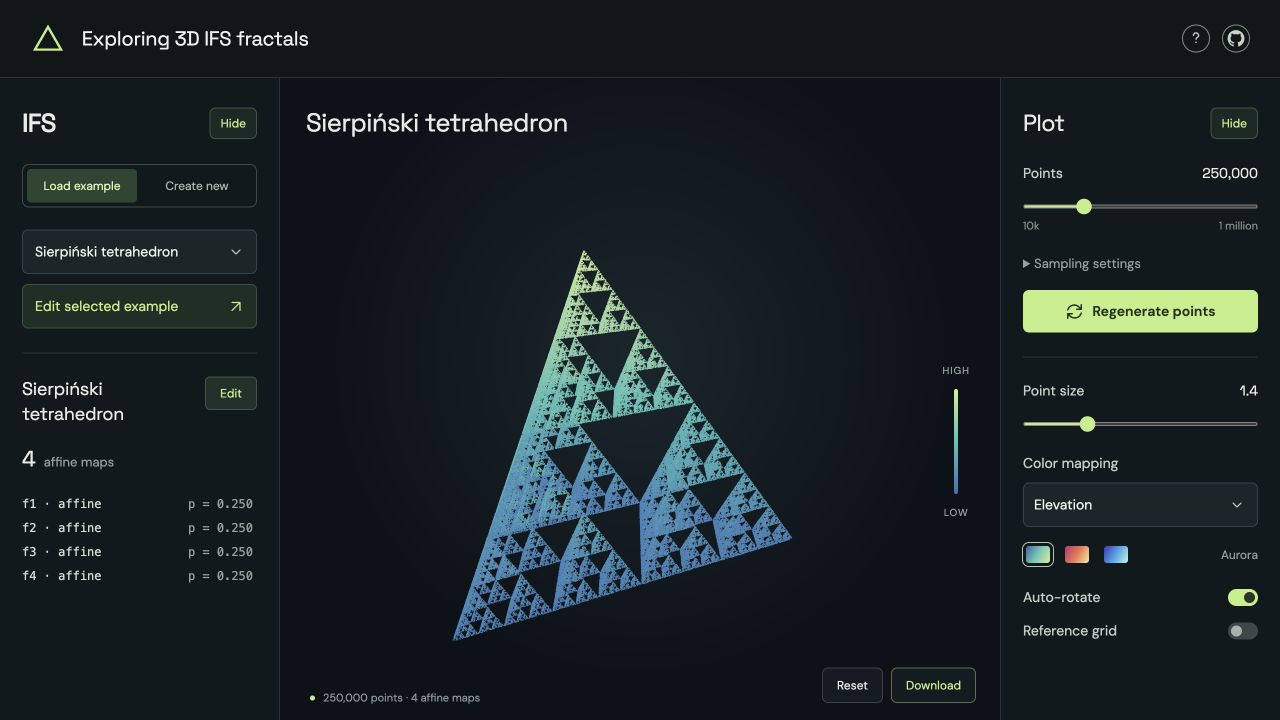
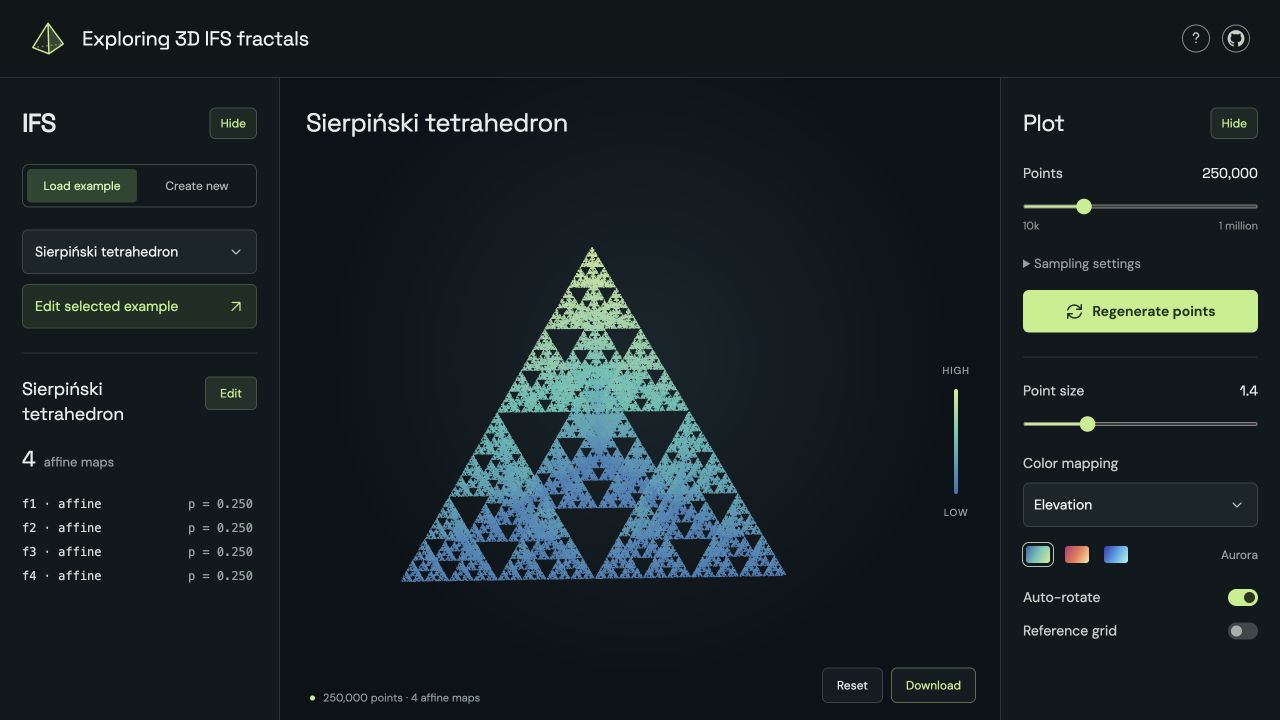
Add four fractal examples and tetrahedron brand mark

Changed region(s): [[0.3125, 0.3361, 0.625, 0.8861], [0.0312, 0.0306, 0.2188, 0.0917]]

diff --git a/index.html b/index.html
@@ -8,7 +8,7 @@
   <link rel="stylesheet" href="/src/style.css">
 </head>
 <body>
-  <header class="topbar"><a class="brand" href="./"><span class="mark" aria-hidden="true">△</span><span>Exploring 3D IFS fractals</span></a><div class="header-links"><a class="plot-help header-icon" href="https://en.wikipedia.org/wiki/Chaos_game" target="_blank" rel="noopener noreferrer" aria-label="About the chaos game plotting method (opens in a new tab)" title="Chaos game: repeatedly apply a randomly chosen map, using its weight as the selection probability, and plot the resulting points."><svg viewBox="0 0 24 24" aria-hidden="true" fill="none" stroke="currentColor" stroke-width="1.8" stroke-linecap="round" stroke-linejoin="round"><path d="M8.5 8a3.5 3.5 0 0 1 7 0c0 2.5-3.5 2.5-3.5 5"/><circle cx="12" cy="17" r="1" fill="currentColor" stroke="none"/></svg></a><a class="github-link header-icon" href="https://github.com/zfengg/3D-IFS-Fractals" target="_blank" rel="noopener noreferrer" aria-label="GitHub repository (opens in a new tab)" title="View source on GitHub"><svg viewBox="0 0 24 24" aria-hidden="true" fill="currentColor"><path d="M12 .75a11.25 11.25 0 0 0-3.56 21.92c.56.1.77-.24.77-.54v-2.1c-3.13.68-3.79-1.33-3.79-1.33-.51-1.3-1.25-1.65-1.25-1.65-1.02-.7.08-.69.08-.69 1.13.08 1.72 1.16 1.72 1.16 1 1.72 2.63 1.22 3.27.93.1-.73.39-1.22.71-1.5-2.5-.28-5.13-1.25-5.13-5.56 0-1.23.44-2.23 1.16-3.01-.12-.29-.5-1.43.11-2.98 0 0 .94-.3 3.09 1.15a10.8 10.8 0 0 1 5.62 0c2.15-1.46 3.09-1.15 3.09-1.15.61 1.55.23 2.69.11 2.98.72.78 1.16 1.78 1.16 3.01 0 4.32-2.63 5.28-5.14 5.56.4.35.76 1.03.76 2.08v3.1c0 .3.2.65.78.54A11.25 11.25 0 0 0 12 .75Z"/></svg></a></div></header>
+  <header class="topbar"><a class="brand" href="./"><span class="mark" aria-hidden="true"><svg viewBox="0 0 40 40" fill="none" stroke="currentColor" stroke-width="1.6" stroke-linejoin="round"><path d="M20 3 3 30 21 37Z" fill="currentColor" fill-opacity=".08"/><path d="M20 3 21 37 37 26Z" fill="currentColor" fill-opacity=".22"/><path d="m3 30 18 7 16-11"/><path d="m3 30 34-4" stroke-opacity=".45" stroke-dasharray="2 3"/></svg></span><span>Exploring 3D IFS fractals</span></a><div class="header-links"><a class="plot-help header-icon" href="https://en.wikipedia.org/wiki/Chaos_game" target="_blank" rel="noopener noreferrer" aria-label="About the chaos game plotting method (opens in a new tab)" title="Chaos game: repeatedly apply a randomly chosen map, using its weight as the selection probability, and plot the resulting points."><svg viewBox="0 0 24 24" aria-hidden="true" fill="none" stroke="currentColor" stroke-width="1.8" stroke-linecap="round" stroke-linejoin="round"><path d="M8.5 8a3.5 3.5 0 0 1 7 0c0 2.5-3.5 2.5-3.5 5"/><circle cx="12" cy="17" r="1" fill="currentColor" stroke="none"/></svg></a><a class="github-link header-icon" href="https://github.com/zfengg/3D-IFS-Fractals" target="_blank" rel="noopener noreferrer" aria-label="GitHub repository (opens in a new tab)" title="View source on GitHub"><svg viewBox="0 0 24 24" aria-hidden="true" fill="currentColor"><path d="M12 .75a11.25 11.25 0 0 0-3.56 21.92c.56.1.77-.24.77-.54v-2.1c-3.13.68-3.79-1.33-3.79-1.33-.51-1.3-1.25-1.65-1.25-1.65-1.02-.7.08-.69.08-.69 1.13.08 1.72 1.16 1.72 1.16 1 1.72 2.63 1.22 3.27.93.1-.73.39-1.22.71-1.5-2.5-.28-5.13-1.25-5.13-5.56 0-1.23.44-2.23 1.16-3.01-.12-.29-.5-1.43.11-2.98 0 0 .94-.3 3.09 1.15a10.8 10.8 0 0 1 5.62 0c2.15-1.46 3.09-1.15 3.09-1.15.61 1.55.23 2.69.11 2.98.72.78 1.16 1.78 1.16 3.01 0 4.32-2.63 5.28-5.14 5.56.4.35.76 1.03.76 2.08v3.1c0 .3.2.65.78.54A11.25 11.25 0 0 0 12 .75Z"/></svg></a></div></header>
   <main>
     <aside id="ifs-panel" class="panel system-panel" aria-label="IFS settings and creation">
       <div class="panel-heading"><h1>IFS</h1><button id="toggle-ifs" class="sidebar-toggle" type="button" aria-label="Hide IFS" aria-expanded="true" aria-controls="ifs-panel">Hide</button></div>

diff --git a/src/presets.ts b/src/presets.ts
@@ -8,11 +8,33 @@ const vicsek=[[0,0,0],[1,0,0],[-1,0,0],[0,1,0],[0,-1,0],[0,0,1],[0,0,-1]].map(v=
 const fern=[{a:[.12,0,0,0,.22,0,0,0,.12],b:[0,0,0],p:.01},{a:[.83,.035,0,-.035,.85,0,0,0,.8],b:[0,.28,0],p:.76}];
 for(let i=0;i<3;i++){const t=i*Math.PI*2/3,c=Math.cos(t),s=Math.sin(t);fern.push({a:[.32*c,.38*c,-.32*s,-.28,.36,0,.32*s,.38*s,.32*c],b:[0,.16,0],p:.23/3});}
 
+// Similarities with explicit rotations keep these examples contractive.
+const octahedron = [[1,0,0],[-1,0,0],[0,1,0],[0,-1,0],[0,0,1],[0,0,-1]]
+ .map(v=>diagonal(.5,v.map(x=>x*.5),1/6));
+const dust: MapDefinition[] = [];
+for(const x of [-1,1])for(const y of [-1,1])for(const z of [-1,1])
+ dust.push(diagonal(1/3,[x*2/3,y*2/3,z*2/3],1/8));
+const twistedTetra = tetra.map((map,i)=>{
+ const angle=(i%2 ? -1 : 1)*Math.PI/5,c=Math.cos(angle)*.48,s=Math.sin(angle)*.48;
+ return {a:[c,0,s,0,.48,0,-s,0,c],b:map.b,p:1/4};
+});
+// A short trunk and three tilted, azimuthally rotated copies of the whole tree.
+const tree: MapDefinition[] = [{a:[.12,0,0,0,.5,0,0,0,.12],b:[0,0,0],p:.1}];
+for(let i=0;i<3;i++){
+ const angle=i*2*Math.PI/3,c=Math.cos(angle),s=Math.sin(angle);
+ const tilt=Math.PI/5,u=Math.cos(tilt),v=Math.sin(tilt),r=.62;
+ tree.push({a:[r*c*u,r*c*v,r*s,-r*v,r*u,0,-r*s*u,-r*s*v,r*c],b:[0,.5,0],p:.3});
+}
+
 export const presets: Record<string,Preset>={
  tetra:{name:'Sierpiński tetrahedron',description:'Four half-scale copies, nested into a tetrahedron. A three-dimensional relative of the Sierpiński triangle.',maps:tetra},
  menger:{name:'Menger sponge',description:'Twenty smaller cubes remain at every level, opening a lattice of tunnels through the original cube.',maps:spongeMaps(mengerExample),sponge:mengerExample},
  baranski:{name:'Barański sponge',description:'A nonuniform 3 × 3 × 3 grid with 20 retained rectangular cells.',maps:spongeMaps(baranskiExample),sponge:baranskiExample},
  bedfordMcMullen:{name:'Bedford–McMullen sponge',description:'A 2 × 3 × 4 grid with 16 retained cells and contraction ratios 1/2, 1/3, 1/4.',maps:spongeMaps(bedfordExample),sponge:bedfordExample},
+ octahedron:{name:'Sierpiński octahedron',description:'Six half-scale copies arranged at the vertices of an octahedron.',maps:octahedron},
+ cantorDust:{name:'Cantor dust',description:'Eight corner copies at one-third scale form a sparse cubic dust.',maps:dust},
+ twistedTetra:{name:'Twisted tetrahedron',description:'Four rotated copies give a tetrahedral arrangement a spiral texture.',maps:twistedTetra},
+ tree:{name:'Branching tree',description:'Three tilted branches repeat around a slender central trunk.',maps:tree},
  vicsek:{name:'Vicsek cross',description:'Seven copies grow along three perpendicular axes, repeating a cross at every scale.',maps:vicsek},
  fern:{name:'Spatial fern',description:'An experimental branching system with a central stem and three rotated fronds in space.',maps:fern},
  nonlinear:{name:'Sine branches',description:'Three nonlinear maps bend and branch space with sine and cosine. Open the editor to change their equations.',maps:[{x:'.55*x + .25*sin(y) - .7',y:'.55*y + .2*cos(z)',z:'.55*z + .2*sin(x)',p:1/3},{x:'.55*x + .25*sin(z) + .7',y:'.55*y + .2*sin(x)',z:'.55*z + .2*cos(y)',p:1/3},{x:'.5*x + .2*sin(y)',y:'.5*y + .8',z:'.5*z + .3*cos(x)',p:1/3}]}

diff --git a/src/style.css b/src/style.css
@@ -113,3 +113,5 @@ select,.map-table select{
 .header-links{display:flex;align-items:center;gap:12px;margin-left:auto;flex-shrink:0}.header-links .plot-help{width:26px;height:26px}
 
 .topbar .header-icon{display:inline-flex;align-items:center;justify-content:center;width:28px;height:28px;min-width:28px;padding:0;margin:0;border:1px solid #7a9185;border-radius:50%;color:#c2d4c7;text-decoration:none;flex:0 0 28px}.header-icon svg{display:block;width:18px;height:18px}.topbar .header-icon:hover{background:#2c4530;border-color:#c2ef87;color:#c2ef87}
+
+.brand .mark{display:inline-flex;align-items:center;justify-content:center;width:36px;height:36px;flex:0 0 36px}.mark svg{display:block;width:36px;height:36px}

diff --git a/README.md b/README.md
@@ -9,7 +9,7 @@ Built with **TypeScript, Three.js, and Vite**—no backend or API keys required.
 
 ## Explore and create
 
-- **Load an example:** Sierpiński tetrahedron, Menger, Barański, Bedford–McMullen, Vicsek, and more.
+- **Load an example:** Sierpiński tetrahedron, Menger, Barański, Bedford–McMullen, Vicsek, Cantor dust, a twisted tetrahedron, and a branching tree.
 - **Edit an IFS:** combine affine matrices and nonlinear expressions; import or export JSON.
 - **Design a sponge:** define its grid, select cells layer by layer, and inspect a live 3D preview.
 - **Adjust the plot:** point count, size, colors, rotation, and an optional reference grid.
